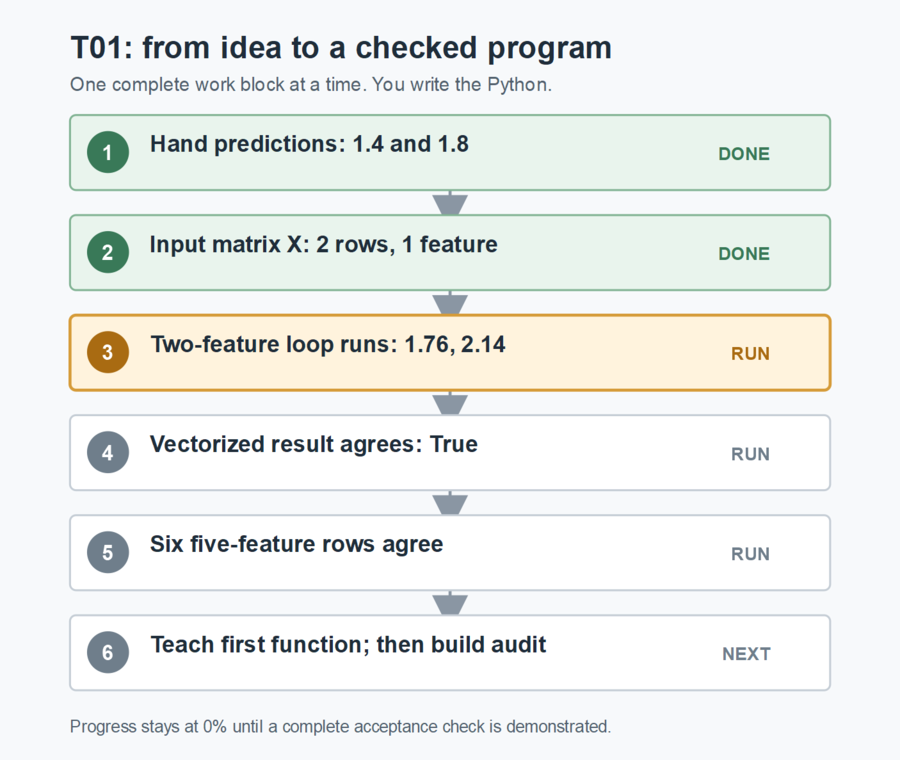
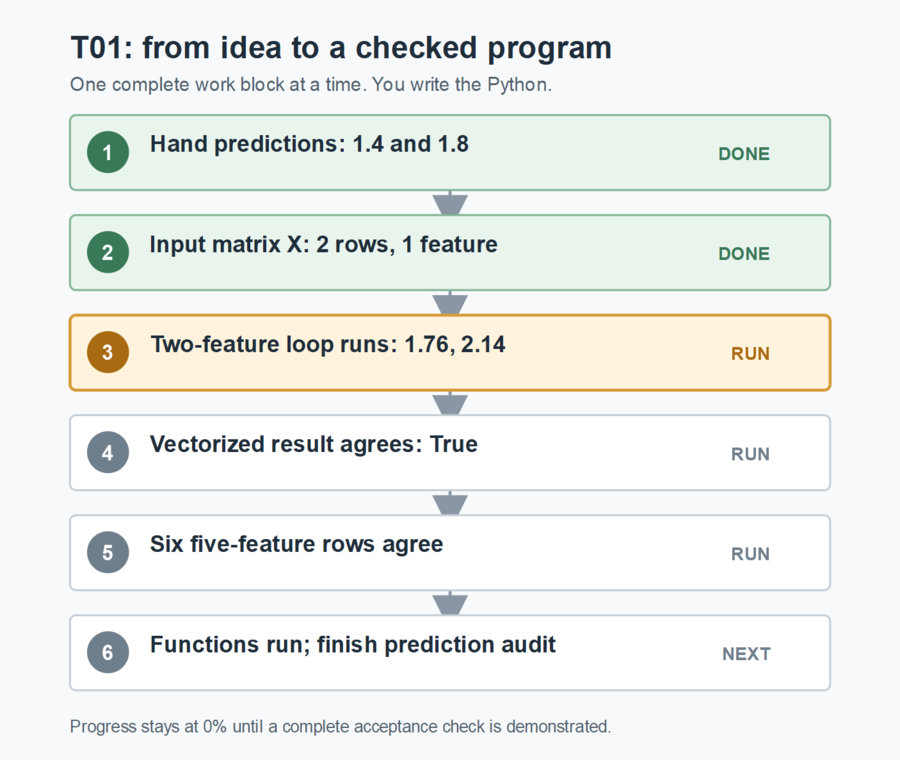
docs: map prediction functions to cost and training

Changed region(s): [[0.1556, 0.8171, 0.6222, 0.8776]]

diff --git a/LEARNING_MANUAL.md b/LEARNING_MANUAL.md
@@ -8,13 +8,13 @@ This is the one document to read and work from. It grows as you build the projec
 |---|---|
 | Course study | Machine Learning Specialization C1W1 and C1W2 completed, learner-reported; C1W3 not confirmed |
 | Project | P00, first-principles valuation-stretch foundation |
-| Active task | ML-G01-T01: learn functions with an exact first pass, then finish the prediction audit |
+| Active task | ML-G01-T01: both prediction functions now run; finish the prediction audit |
 | Correct so far | One-feature hand predictions and shapes; full six-row agreement; changed-input run; incompatible-shape error observed and restored |
 | Still to demonstrate | Reusable functions, an explicit shape guard, a named result table, and one concise defense of the model's limits |
-| Code | The learner has started `def vector_pred(x, w, b):` at the end of the file; the function body is not written yet |
+| Code | Assisted first-pass `vector_pred` and `loop_pred` functions both return the original six values; duplicate top-level calculations remain |
 | Evidence-backed progress | Task 0%, P00 0%, overall 0%; execution observed, required explanations and transfer still open |
 
-![T01 learning flow, showing the function teaching pass before the integrated capstone](Visuals/current_lesson_flow.png)
+![T01 learning flow, showing the working functions and remaining audit](Visuals/current_lesson_flow.png)
 
 The picture is a rendered PNG, not a Mermaid code block. The table above gives the same state if an image viewer is unavailable.
 
@@ -150,7 +150,7 @@ print(double_with_fee(3, 1))  # 7
 
 Line 1 defines a reusable calculation and names two inputs. Line 2 calculates from those inputs. Line 3 sends the result back. The last line calls the function with `3` and `1`, then prints `7`. The indented lines belong to the function; the unindented `print` runs after the definition.
 
-Your file already ends with `def vector_pred(x, w, b):`, but its body is empty. For this assisted first pass, type these exact lines to complete and call it:
+For the assisted first pass, you completed and called the function with these lines:
 
 ```python
 def vector_pred(x, w, b):
@@ -159,7 +159,26 @@ def vector_pred(x, w, b):
 print(vector_pred(x, w, b))
 ```
 
-Keep the existing `def` line; add the indented `return` below it, a blank line, then the unindented `print`. `x`, `w`, and `b` inside the function are inputs supplied by the call. `np.dot(x, w) + b` is the calculation you already ran outside a function. `return` hands its six-number array back to `print`. Run the file and check that the final printed array repeats the original six predictions. This step is assisted teaching, not independent mastery. After it works, the mentor teaches validation and the loop function in the same way, then gives a changed case to do independently.
+The indented `return` belongs to the function; the unindented `print` calls it. `x`, `w`, and `b` inside the function are inputs supplied by that call. `np.dot(x, w) + b` is the calculation you had already run outside a function. `return` hands its six-number array back to `print`. The run repeated the original six predictions. This was assisted teaching, not independent mastery.
+
+**Current result:** that teaching pass is done. You added a shape guard to `vector_pred`, tested its own error, and wrote `loop_pred` with the same guard. Both functions return the same six predictions. The earlier top-level loop and dot calculation still run too, so the script prints repeated outputs; later cleanup will keep one clear path through the functions.
+
+### Why this task exists
+
+This is the **prediction** part of linear regression, not training yet. Each company row contains five financial ratios. Each ratio pairs with one supplied weight; their products are summed and the bias is added once. A loop makes every step inspectable. `np.dot` performs the same row-wise calculation compactly. The function names let later cost and training code call the calculation with new inputs and weights instead of duplicating it. The guards stop a misleading run when the number of feature columns and weights differs.
+
+The numbers are a toy estimated log valuation multiple from synthetic data and trial parameters. Their agreement shows the two implementations match, not that the model fits real valuations or predicts market returns.
+
+### What comes next
+
+| Project task | What you will build | Why it follows |
+|---|---|---|
+| Finish T01 | Remove duplicate top-level calculations, show named company predictions, rerun original/changed/error cases, and explain limits | Leaves one clean, reusable prediction tool |
+| T02: cost and residuals | Compare predictions with synthetic observed targets, calculate errors and squared-error cost | Measures how far the model is from known values |
+| T03: gradients and gradient descent | Calculate how weights and bias should change, update them repeatedly, and plot cost over steps | Trains the model instead of using trial weights |
+| T04-T06 | Scaling, feature experiments, and a limited valuation-stretch research output | Tests whether the training and finance interpretation hold up |
+
+Your course coverage is C1W1 and C1W2, learner-reported. T01 applies C1W1 prediction and C1W2 multiple features/vectorization. T02 and T03 deliberately return to the C1W1 cost and gradient-descent ideas you already studied. C1W3 is not marked complete until you confirm it.
 
 ### Later in this work block
 

diff --git a/00_CURRENT_CONTEXT.md b/00_CURRENT_CONTEXT.md
@@ -14,7 +14,7 @@ This is the compact mentor resumption note for `D:\ML-project`. The learner work
 
 - Project: AI Capital Cycle Quantamental Research Engine.
 - Public repository: [Shreyash3007/ai-capital-cycle-quantamental-research](https://github.com/Shreyash3007/ai-capital-cycle-quantamental-research).
-- Publication state: the observed prediction runs and the integrated-work-block plan are on public `main`; the learner has a local, unfinished `vector_pred` definition that must not be overwritten or published as completed code.
+- Publication state: earlier prediction runs and the teaching-first plan are on public `main`; the learner has locally completed guarded `vector_pred` and `loop_pred` functions, not yet committed while the script still contains duplicate top-level calculations and a trailing blank line.
 - Mentor Mode: active; follow [MENTOR_MODE.md](MENTOR_MODE.md).
 - Phase: P00, C1W2 first-principles valuation engine.
 - Goal: [ML-G01 - C1W2 Valuation Stretch Foundation](Goals/ML-G01%20-%20C1W2%20Valuation%20Stretch%20Foundation/GOAL.md).
@@ -24,7 +24,7 @@ This is the compact mentor resumption note for `D:\ML-project`. The learner work
 - Progress: task 0%, phase 0%, overall 0% because execution is observed but no full explained acceptance check is closed; canonical ledger: [PROGRESS.md](PROGRESS.md).
 - Assistance debt: none.
 - Course coverage: Machine Learning Specialization C1W1 and C1W2 completed, learner-reported. C1W3 has not been confirmed. P00 uses C1W1 prediction, cost, and gradient descent as well as C1W2 methods. Later methods may be introduced early with a first-principles explanation, a bounded task, and a learner understanding check; this does not mark a course week or project capability complete.
-- Next action: the learner has explicitly asked for exact, line-by-line teaching on new concepts before independent code. The saved file ends with `def vector_pred(x, w, b):` and no body. Start with the simple worked function example in `LEARNING_MANUAL.md`, then show the exact indented `return np.dot(x, w) + b` line and the function call for the learner to type and run. Explain `def`, parameters, indentation, `return`, and the call without assuming prior Python knowledge. Label this assisted; after it works, teach validation and loop-function extraction, then use an independent changed case for mastery.
+- Next action: the learner asked why T01 exists and what comes next. Explain that T01 applies C1W1 prediction and C1W2 multiple features/vectorization to a reusable six-company toy model. The two guarded functions now run and agree. Next finish one clean path through the functions and named output, then T02 cost/residuals, then T03 gradients/gradient descent and a cost curve. Teach each unfamiliar code step with a different worked example and exact first-pass lines; require independent transfer before mastery credit. Do not silently rewrite the learner file.
 
 ## Current research target
 
@@ -77,4 +77,4 @@ The cross-phase [software engineering path](ENGINEERING_LEARNING_PATH.md) now in
 
 ## Evidence state
 
-The learner's general nested-loop code has executed on the full table, a changed input, and an intentional shape failure; the saved script was restored and rerun. The required independent explanations remain open. These runs are implementation evidence, not a completed research capability. After each task, record observed checks in `PROGRESS.md`, then refresh this note last.
+The learner's general nested-loop code has executed on the full table, a changed input, and an intentional shape failure. The two guarded functions now return the same six values; these were taught with exact first-pass code and remain assisted evidence. Independent transfer and interpretation are open. After each task, record observed checks in `PROGRESS.md`, then refresh this note last.

diff --git a/PROGRESS.md b/PROGRESS.md
@@ -24,7 +24,7 @@ Phase P00        [--------------------]   0%
 Overall project  [--------------------]   0%
 ```
 
-The learner's general loop and vectorized prediction agree on the full six-row, five-feature table and after changing NexaCloud revenue growth from `0.40` to `0.50`. With four weights, the loop silently omitted a feature while `np.dot` raised a shape error. The learner restored the frozen data and five weights; the mentor reran the script successfully. Independent explanations remain open, so no complete T01 check has been credited yet.
+The learner's general loop and vectorized prediction agree on the full six-row, five-feature table and after changing NexaCloud revenue growth from `0.40` to `0.50`. The intentional four-weight failure was observed. The learner has now typed guarded `vector_pred` and `loop_pred` functions; both return the original six values. These functions were taught with exact first-pass code, so independent transfer and explanation remain open and no complete T01 check has been credited yet.
 
 The [software engineering path](ENGINEERING_LEARNING_PATH.md) is planned across these phases, from Python file structure through SQL, APIs, frontend work, and system design. It earns no separate completion credit from documentation; each phase will require observed engineering evidence at its own gate.
 
@@ -96,4 +96,4 @@ If T01 reaches 100%, P00 gains 15 percentage points and the overall project gain
 
 ## Next milestone
 
-Teach the first function line by line as shown in `LEARNING_MANUAL.md`. The learner has typed `def vector_pred(x, w, b):` but not its body, so the local script is temporarily incomplete. The mentor gives exact first-pass code and checks a run; this is assisted teaching. Then teach validation and the loop function, and require an independent changed case before awarding mastery credit. The larger T01 prediction-audit outcome and the evidence-backed percentages are unchanged.
+The guarded loop and vectorized functions now run after an assisted teaching pass. Finish T01 with one clean script path through those functions, named company predictions, and an independent changed-input or fresh-fixture transfer plus a short explanation of what the outputs and comparison can and cannot establish. Then move directly to T02 cost and residuals, followed by T03 gradient descent.

diff --git a/JOURNEY.md b/JOURNEY.md
@@ -25,6 +25,7 @@ This is the chronological record of decisions, attempts, evidence, and changes i
 | 2026-09-29 | [T01 shape-failure run](Journey/2026-09-28-ML-G01-T01.md): four weights against five feature columns made `np.dot` raise a dimension error; learner restored the script and mentor reran it. | Failure and recovery observed; learner diagnosis remains open. |
 | 2026-09-29 | Mentor cadence changed at the learner's request: larger integrated work blocks, one worked different-domain example before every new assignment, and one combined review of code, runs, and explanation. [T01 capstone](LEARNING_MANUAL.md) is now the next block. | Process change only; no new capability credit. |
 | 2026-09-29 | Learner clarified that new concepts need exact, line-by-line teaching before independent coding. Mentor Mode now records first-pass code as assisted and requires a later independent variation. The learner has started an incomplete `vector_pred` definition; the [manual](LEARNING_MANUAL.md) teaches its first body line. | Teaching preference updated; no new capability credit. |
+| 2026-09-29 | [T01 function teaching pass](Journey/2026-09-28-ML-G01-T01.md): learner typed guarded vectorized and loop functions; both return the original six predictions. The manual now explains why this task precedes cost and gradient descent. | Assisted function run observed; independent transfer pending. |
 
 The setup documents were prepared with mentor assistance. They are project planning, not learner-authored model code or proof of mastery.
 

diff --git a/Journey/2026-09-28-ML-G01-T01.md b/Journey/2026-09-28-ML-G01-T01.md
@@ -52,3 +52,9 @@ Have the learner explain in one sentence what `True` establishes and what it can
 - The loop used `range(len(w))`, so it visited only four feature columns and did not notice that each row had five. The vectorized dot product checked the inner dimensions and failed.
 - Mentor inspected the saved script afterward: the fifth weight and NexaCloud's frozen `0.40` had already been restored. Mentor reran it successfully: both paths returned the original six predictions and `True` from `np.allclose`.
 - The learner's own diagnosis of why the loop continued and the dot product failed is still open. No broken script was committed.
+
+## Assisted function teaching pass
+
+- The learner typed `vector_pred(x, w, b)` with a feature/weight shape guard and a `np.dot` return. A four-weight call reached the learner's `ValueError("Need one weight for each feature")`; this confirmed the guard itself, unlike the earlier top-level `np.dot` failure.
+- The learner then typed `loop_pred(x, w, b)` with the same guard, nested row/feature loops, and an array return. Mentor reran the saved file: both functions returned `[2.687 2.376 2.955 1.973 2.004 2.032]`, and their comparison returned `True`.
+- The mentor provided exact first-pass function and guard lines in chat at the learner's request. This is assisted teaching, not independent transfer. The old top-level calculations remain duplicated in the file. The learner asked for the reason for this task and the next chapter before more code.
